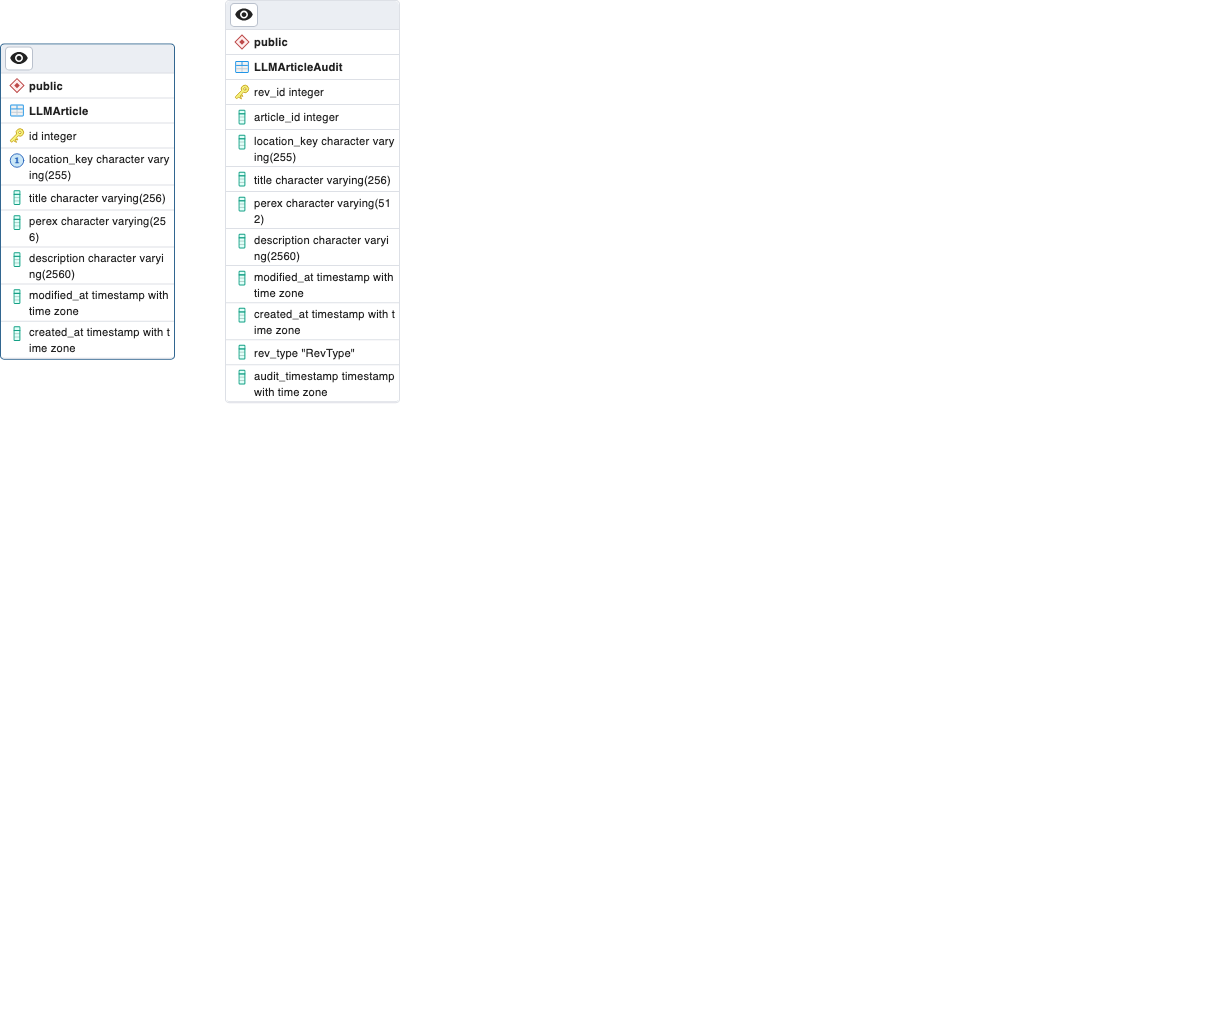
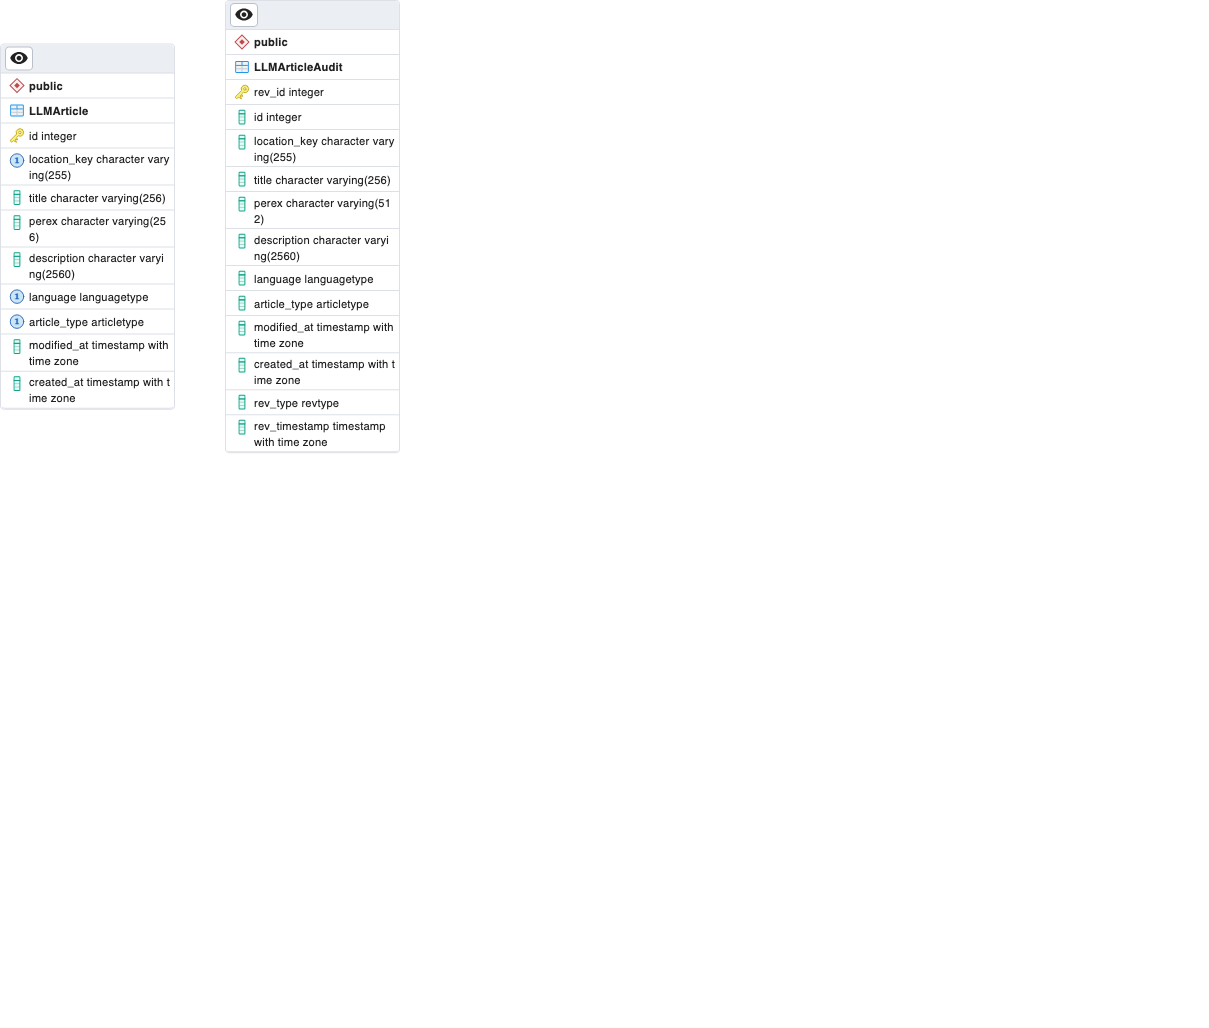
Upser article in DB with non blocking manner when article is not cached in service layer and update database definition

Changed region(s): [[0.1836, 0.249, 0.3366, 0.4358], [0.0, 0.2802, 0.153, 0.4047], [0.2142, 0.0934, 0.2754, 0.1245]]

diff --git a/src/repository/llm_article_repository.ts b/src/repository/llm_article_repository.ts
@@ -4,38 +4,52 @@ import LOG from '../log/default_logger.ts';
 
 export class LLMArticleRepository {
 	private repository: Repository<LLMArticleEntity>;
+	private static instance: LLMArticleRepository;
 
-	constructor(dataSource: DataSource) {
+	private constructor(dataSource: DataSource) {
 		this.repository = dataSource.getRepository(LLMArticleEntity);
 	}
 
-	async insertArticle(articleData: Partial<LLMArticleEntity>): Promise<LLMArticleEntity> {
+	public static getInstance(dataSource: DataSource | null = null): LLMArticleRepository {
+		if (!LLMArticleRepository.instance && dataSource) {
+			LLMArticleRepository.instance = new LLMArticleRepository(dataSource);
+		} else if (!LLMArticleRepository.instance && !dataSource) {
+			throw new Error('Data source is not defined');
+		}
+		return LLMArticleRepository.instance;
+	}
+	/**
+	 * If the article already exists it updates the data otherwise inserts a new article.
+	 * @param articleData
+	 * @returns
+	 */
+	public async upsertArticle(articleData: Partial<LLMArticleEntity>): Promise<LLMArticleEntity> {
 		try {
-			const article = this.repository.create(articleData);
-			const savedArticle = await this.repository.save(article);
-			LOG.info(`Article with locationKey ${articleData.locationKey} inserted successfully`);
+			const result = await this.repository.createQueryBuilder()
+				.insert()
+				.into(LLMArticleEntity)
+				.values({
+					...articleData,
+					modifiedAt: new Date(),
+					createdAt: new Date(),
+				})
+				.orUpdate(
+					[
+						'title',
+						'perex',
+						'description',
+						'modified_at',
+					],
+					['location_key', 'language', 'article_type'],
+				)
+				.returning('*')
+				.execute();
+
+			const savedArticle = result.generatedMaps[0] as LLMArticleEntity;
+			LOG.info(`Article with locationKey ${articleData.locationKey} upserted successfully`);
 			return savedArticle;
 		} catch (error) {
-			LOG.error('Failed to insert article:', error);
-			throw error;
-		}
-	}
-
-	async updateArticle(
-		id: number,
-		updateData: Partial<LLMArticleEntity>,
-	): Promise<LLMArticleEntity | null> {
-		try {
-			const article = await this.repository.findOne({ where: { id } });
-			if (!article) {
-				LOG.warn(`Article with ID ${id} not found`);
-				return null;
-			}
-			const updatedArticle = await this.repository.save({ ...article, ...updateData });
-			LOG.info('Article updated successfully');
-			return updatedArticle;
-		} catch (error) {
-			LOG.error('Failed to update article:', error);
+			LOG.error('Failed to upsert article:', error);
 			throw error;
 		}
 	}

diff --git a/src/service/weather_article_service.ts b/src/service/weather_article_service.ts
@@ -6,11 +6,16 @@ import type { WeatherArticleRequestDto } from '../model/dto/request/weather_arti
 import type { WeatherArticleResponseDto } from '../model/dto/response/weather_article_response.dto.ts';
 import { Language } from '../model/enum/language.ts';
 import NodeCache from 'npm:node-cache';
+import { LLMArticleAuditRepository } from '../repository/llm_article_audit_repository.ts';
+import { mapToLLMArticleEntity } from '../mapper/to_llm_article_entity.ts';
+import { LLMArticleRepository } from '../repository/llm_article_repository.ts';
 
 export class WeatherArticleService {
 	private static instance: WeatherArticleService | undefined;
 	private weatherClientInstance = WeatherClient.getInstance();
 	private LLMClientInstance = LLMClient.getInstance();
+	private llmArticleRepository = LLMArticleRepository.getInstance();
+	private llmArticleAuditRepository = LLMArticleAuditRepository.getInstance();
 
 	private serviceCache = new NodeCache({
 		stdTTL: APP_CONFIG.cache.article.ttl,
@@ -66,6 +71,7 @@ export class WeatherArticleService {
 		);
 
 		this.cacheArticle(locationInfo.Key, weatherArticleRequest, language, article);
+		this.upsertArticle(weatherArticleRequest, language, article, locationInfo.Key);
 
 		return article;
 	}
@@ -74,6 +80,20 @@ export class WeatherArticleService {
 		_weatherArticleRequest: WeatherArticleRequestDto,
 	): Promise<string[]> {
 		return await Promise.resolve(['Weather article 1', 'Weather article 2']);
+	}
+
+	private async upsertArticle(
+		weatherArticleRequest: WeatherArticleRequestDto,
+		language: Language,
+		article: WeatherArticleResponseDto,
+		locationKey: string,
+	): Promise<void> {
+		try {
+			const entity = mapToLLMArticleEntity(weatherArticleRequest, language, article, locationKey);
+			const _result = await this.llmArticleRepository.upsertArticle(entity);
+		} catch (e) {
+			LOG.error(`Failed to upsert article for location: ${locationKey}`, e);
+		}
 	}
 
 	private getCachedArticle<T>(

diff --git a/src/repository/llm_article_audit_repository.ts b/src/repository/llm_article_audit_repository.ts
@@ -1,6 +1,9 @@
 import { DataSource, Repository } from 'typeorm';
 import { AuditEntity } from '../model/entity/audit_entity.ts';
 import LOG from '../log/default_logger.ts';
+import { WeatherServiceCommonError } from '../model/error/weather_service_common_error.ts';
+import { StatusCodes } from 'http-status-codes';
+import * as localizationUtil from '../util/localization.ts';
 
 export class LLMArticleAuditRepository {
 	private repository: Repository<AuditEntity>;
@@ -10,9 +13,16 @@ export class LLMArticleAuditRepository {
 		this.repository = dataSource.getRepository(AuditEntity);
 	}
 
-	public static getInstance(dataSource: DataSource): LLMArticleAuditRepository {
-		if (!LLMArticleAuditRepository.instance) {
+	public static getInstance(dataSource: DataSource | null = null): LLMArticleAuditRepository {
+		if (!LLMArticleAuditRepository.instance && dataSource) {
 			LLMArticleAuditRepository.instance = new LLMArticleAuditRepository(dataSource);
+		} else if (!LLMArticleAuditRepository.instance && !dataSource) {
+			throw new WeatherServiceCommonError(
+				StatusCodes.INTERNAL_SERVER_ERROR,
+				localizationUtil.getTranslation(
+					'weatherServiceGeneralMessages.unknownErrorDuringIntialization',
+				),
+			);
 		}
 		return LLMArticleAuditRepository.instance;
 	}

diff --git a/main.ts b/main.ts
@@ -4,19 +4,20 @@ import cors from 'npm:cors@2.8.5';
 
 import { APP_CONFIG } from './src/config/app_config.ts';
 import * as utils from './src/util/object.ts';
-
+import * as repositoryUtil from './src/util/repository.ts';
 import { controllers } from './src/controller/mod.ts';
 import { logRequests } from './src/middleware/log_middleware.ts';
 import LOG from './src/log/default_logger.ts';
 import { errorHandler } from './src/middleware/error_middleware.ts';
 import { initializeORM } from './src/config/orm_config.ts';
+
 if (!utils.checkDefinedValues(APP_CONFIG)) {
 	LOG.error('Some values in APP_CONFIG are not defined, exiting the process ...');
 	Deno.exit(1);
 }
 
-await initializeORM();
-
+const ORM_CONFIG = await initializeORM();
+repositoryUtil.initializeRepositories(ORM_CONFIG);
 const app = express();
 app.set('trust proxy', 1);
 
@@ -25,6 +26,7 @@ app.use(cors());
 app.use(express.json());
 app.use(express.text());
 app.use(express.urlencoded({ extended: true }));
+//TODO rate limiter
 
 app.use(logRequests);
 

diff --git a/src/mapper/to_llm_article_entity.ts b/src/mapper/to_llm_article_entity.ts
@@ -1,0 +1,22 @@
+import type { WeatherArticleRequestDto } from '../model/dto/request/weather_article_request.dto.ts';
+import type { WeatherArticleResponseDto } from '../model/dto/response/weather_article_response.dto.ts';
+import { LLMArticleEntity } from '../model/entity/llm_article_entity.ts';
+import { Language } from '../model/enum/language.ts';
+
+export function mapToLLMArticleEntity(
+	weatherArticleRequest: WeatherArticleRequestDto,
+	language: Language,
+	articleData: WeatherArticleResponseDto,
+	locationKey: string,
+): LLMArticleEntity {
+	const articleEntity = new LLMArticleEntity();
+
+	articleEntity.locationKey = locationKey;
+	articleEntity.title = articleData.headline;
+	articleEntity.language = language;
+	articleEntity.articleType = weatherArticleRequest.article.type;
+	articleEntity.perex = articleData.perex;
+	articleEntity.description = articleData.description;
+
+	return articleEntity;
+}

diff --git a/src/model/entity/llm_article_audit_entity.ts b/src/model/entity/llm_article_audit_entity.ts
@@ -1,5 +1,7 @@
 import { Column, Entity } from 'typeorm';
 import { AuditEntity } from './audit_entity.ts';
+import { ArticleType } from '../enum/article_type.ts';
+import { Language } from '../enum/language.ts';
 
 @Entity({ name: 'LLMArticleAudit' })
 export class LLMArticleAuditEntity extends AuditEntity {
@@ -8,6 +10,12 @@ export class LLMArticleAuditEntity extends AuditEntity {
 
 	@Column({ name: 'location_key', unique: true, length: 256, type: 'varchar' })
 	locationKey: string;
+
+	@Column({ name: 'language', enum: Language, type: 'enum', nullable: false })
+	language: Language;
+
+	@Column({ name: 'article_type', enum: ArticleType, type: 'enum', nullable: false })
+	articleType: ArticleType;
 
 	@Column({ length: 256, type: 'varchar' })
 	title: string;

diff --git a/src/model/entity/llm_article_entity.ts b/src/model/entity/llm_article_entity.ts
@@ -1,5 +1,7 @@
 import { Column, Entity } from 'typeorm';
 import { BaseEntity } from './default_entity.ts';
+import { Language } from '../enum/language.ts';
+import { ArticleType } from '../enum/article_type.ts';
 
 @Entity({ name: 'LLMArticle' })
 export class LLMArticleEntity extends BaseEntity {
@@ -8,6 +10,12 @@ export class LLMArticleEntity extends BaseEntity {
 
 	@Column({ length: 256, type: 'varchar', nullable: false })
 	title: string;
+
+	@Column({ name: 'language', enum: Language, type: 'enum', nullable: false })
+	language: Language;
+
+	@Column({ name: 'article_type', enum: ArticleType, type: 'enum', nullable: false })
+	articleType: ArticleType;
 
 	@Column({ length: 256, type: 'varchar', nullable: false })
 	perex: string;

diff --git a/src/util/repository.ts b/src/util/repository.ts
@@ -1,0 +1,10 @@
+import type { DataSource } from 'typeorm';
+import { LLMArticleAuditRepository } from '../repository/llm_article_audit_repository.ts';
+import { LLMArticleRepository } from '../repository/llm_article_repository.ts';
+import LOG from '../log/default_logger.ts';
+
+export function initializeRepositories(dataSource: DataSource): void {
+	LLMArticleAuditRepository.getInstance(dataSource);
+	LLMArticleRepository.getInstance(dataSource);
+	LOG.info('All Repositories initialized successfully');
+}

diff --git a/src/config/orm_config.ts b/src/config/orm_config.ts
@@ -29,4 +29,5 @@ export async function initializeORM() {
 		LOG.error('Failed to establish database connection:', error);
 		process.exit(1); // Exit process if the database connection fails
 	}
+	return ORM_CONFIG;
 }
